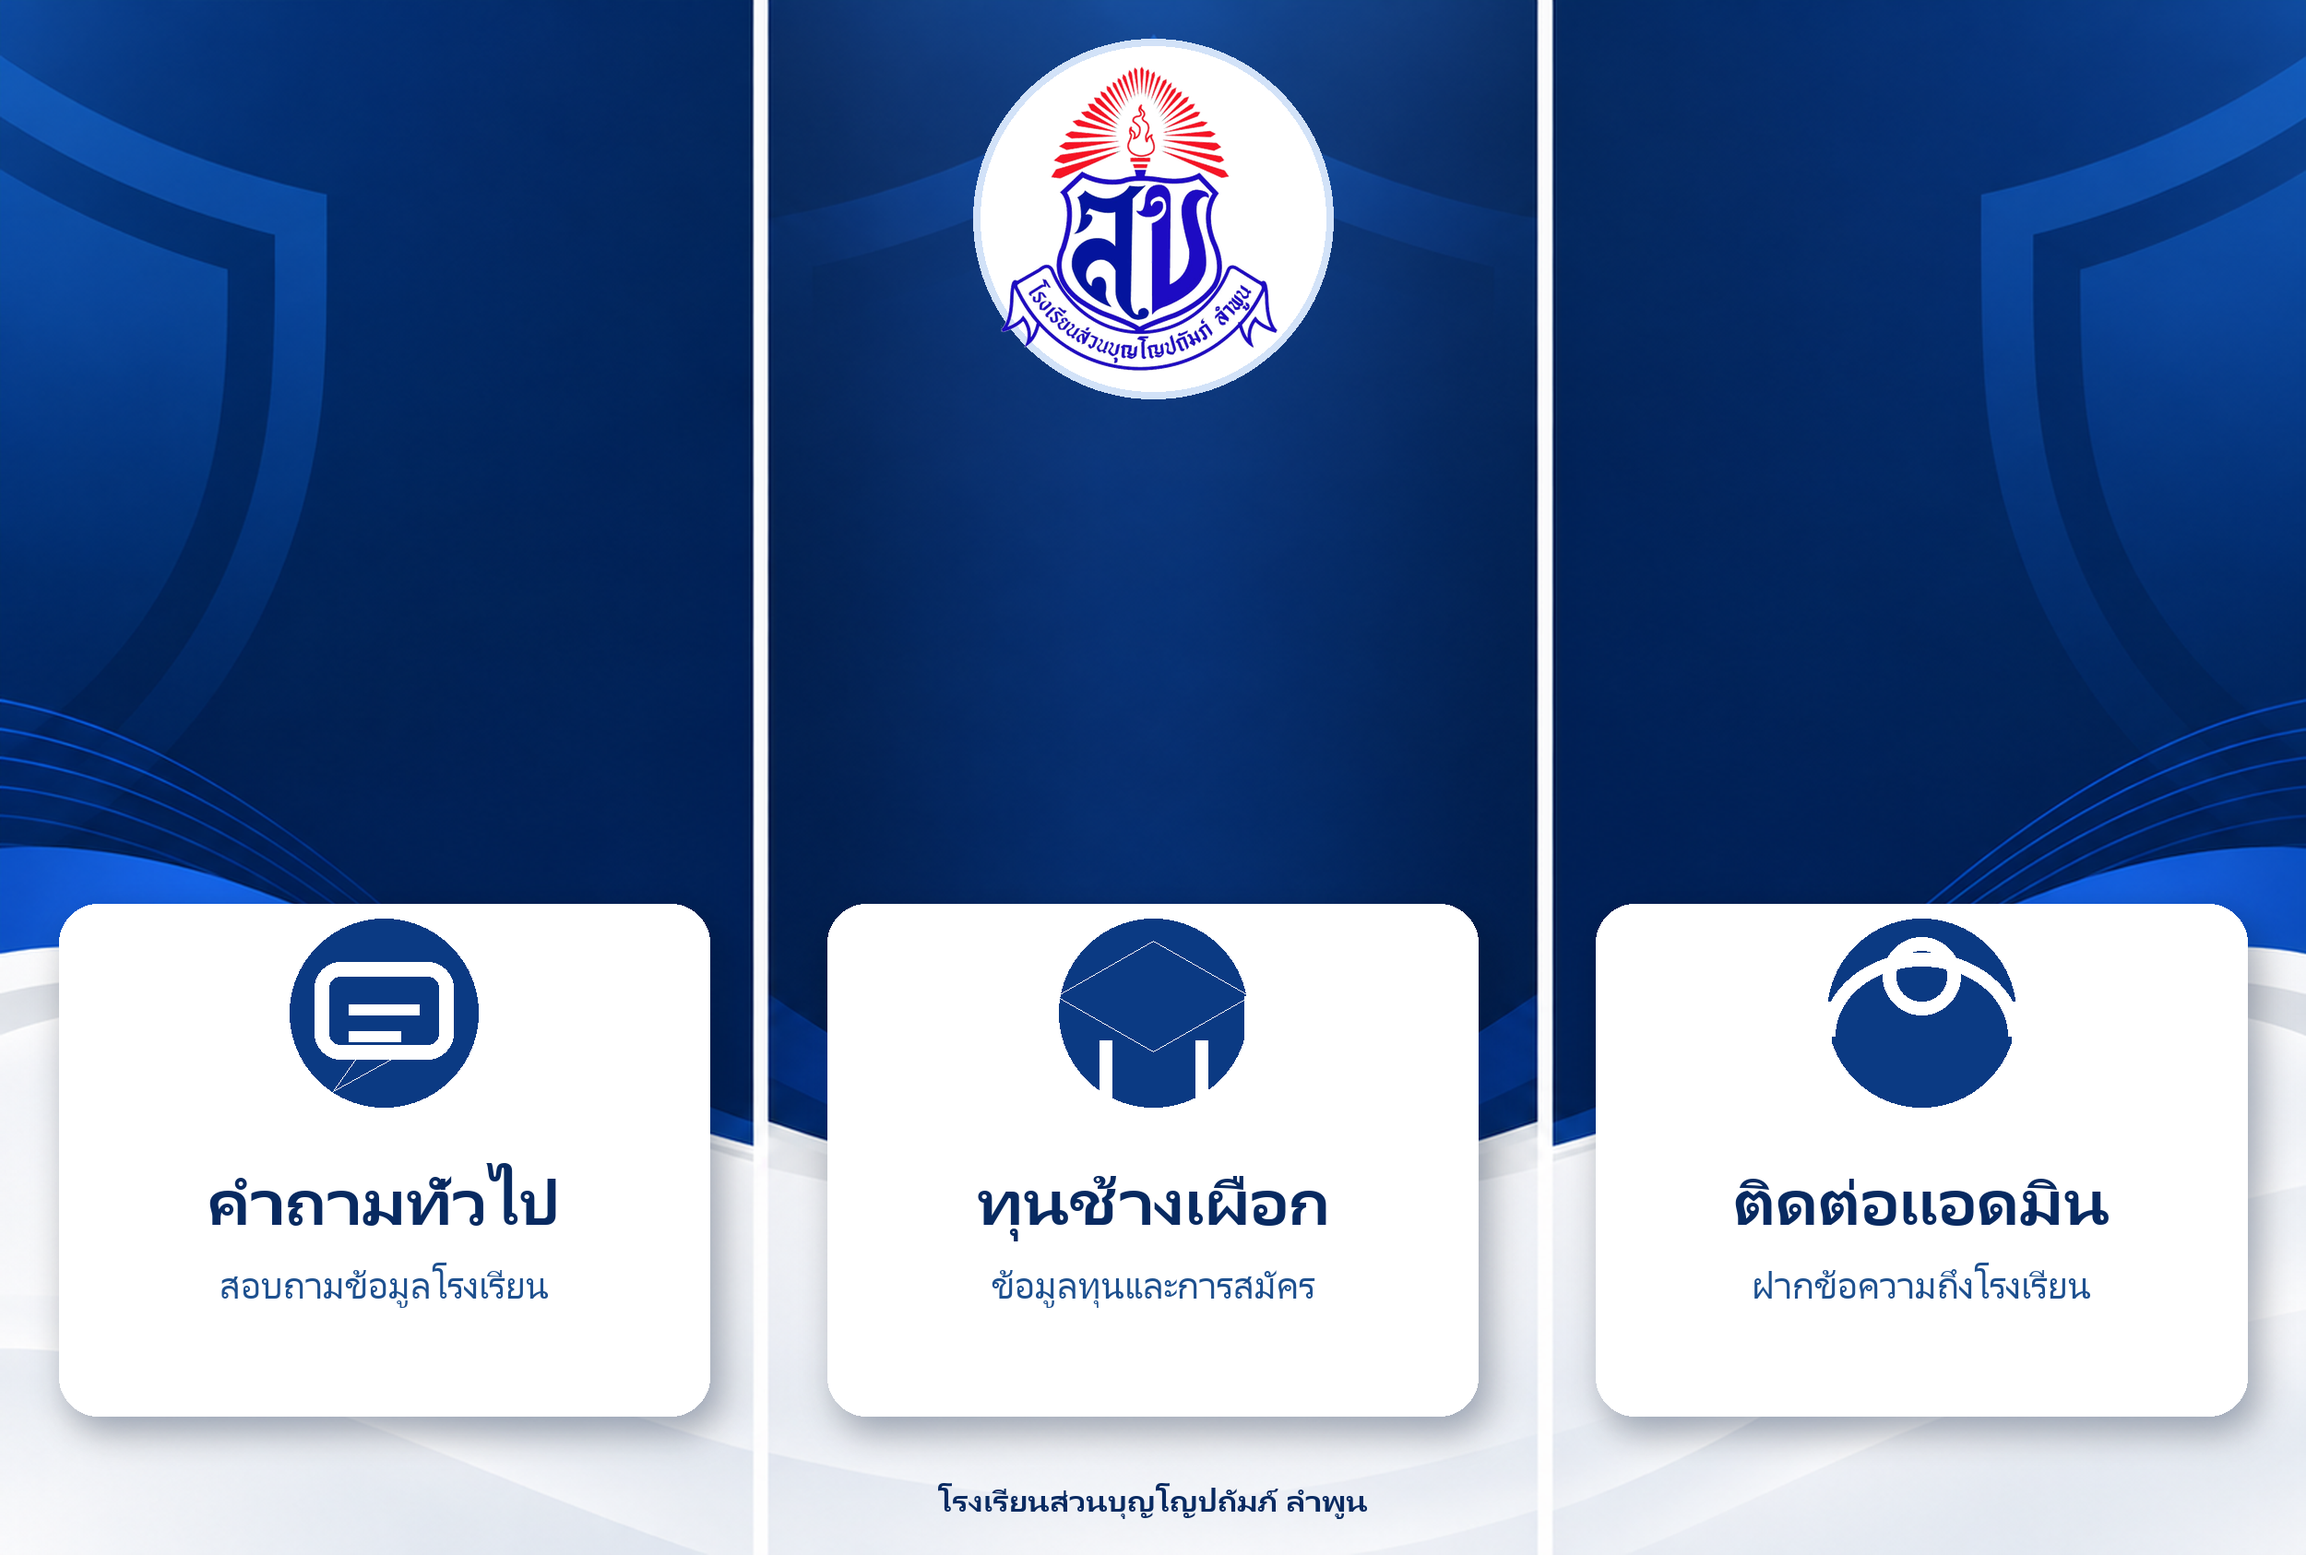
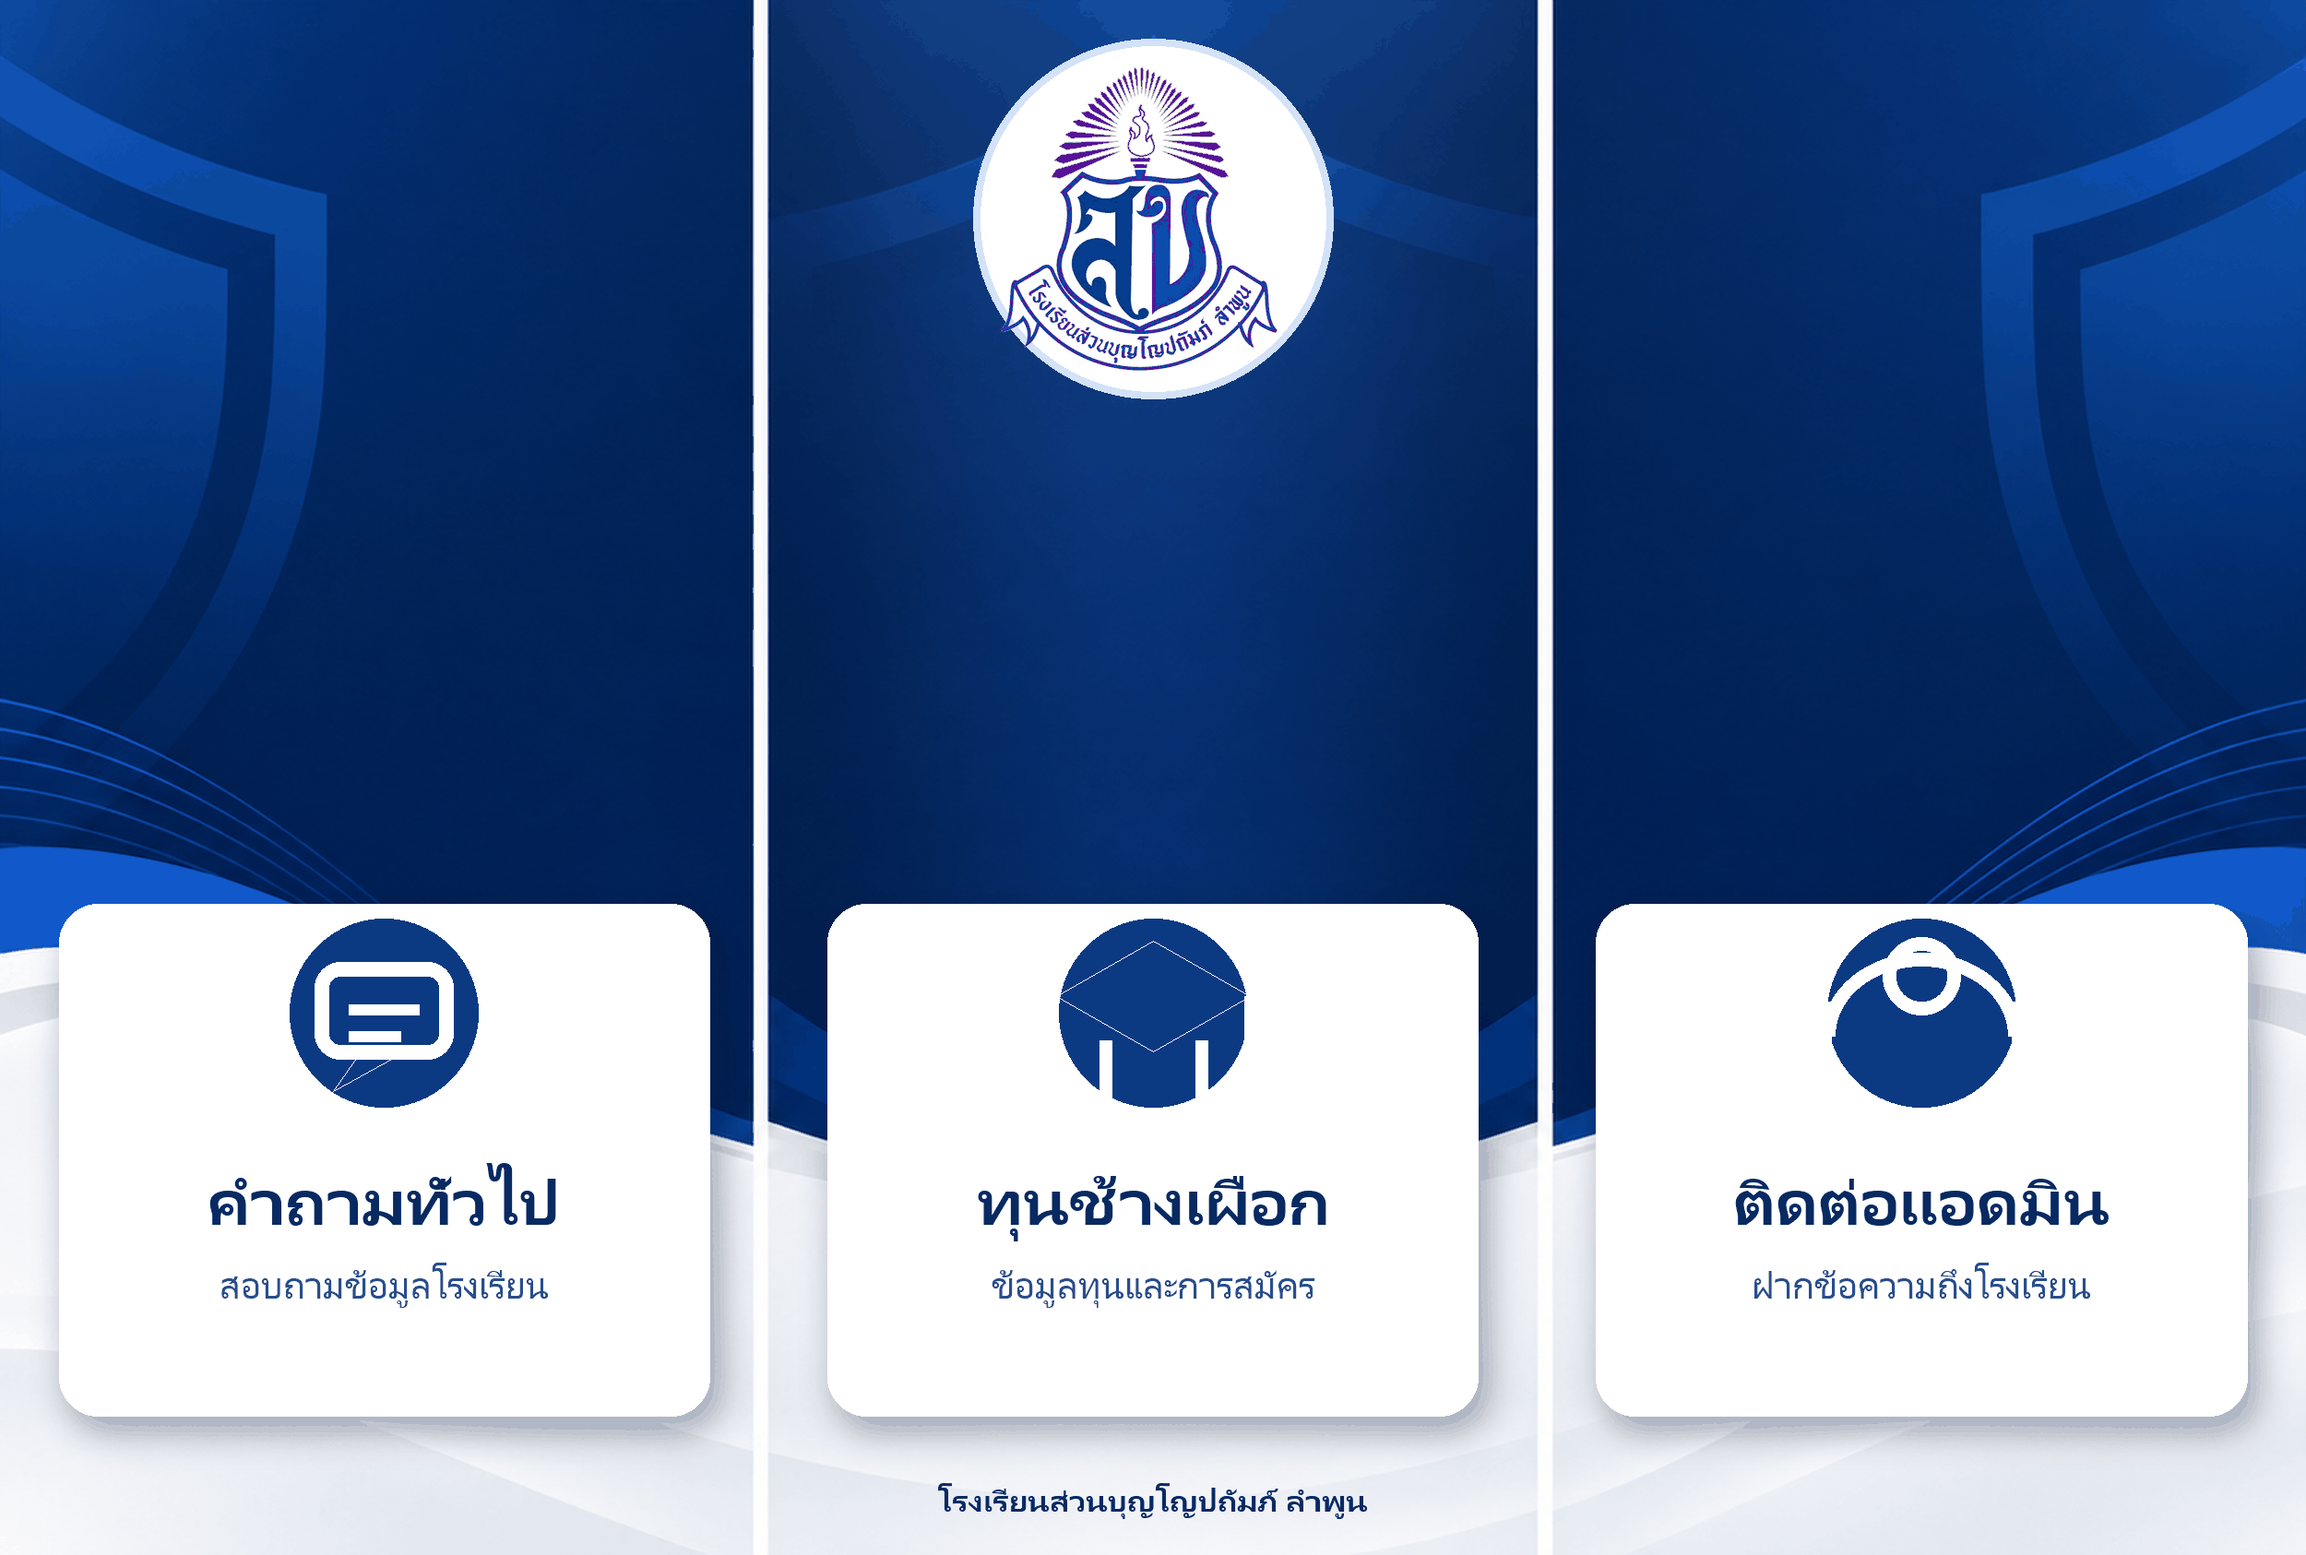
Optimize and upload branded rich menu

Changed region(s): [[0.4368, 0.0308, 0.5616, 0.2467], [0.0624, 0.5552, 0.0936, 0.586]]

diff --git a/src/richMenu.js b/src/richMenu.js
@@ -52,14 +52,19 @@ async function ensureModeRichMenu(client, imageBuffer, options = {}) {
   if (!richMenuId) {
     const response = await client.createRichMenu(createRichMenuRequest());
     richMenuId = response.richMenuId;
-    const imageClient = options.imageClient ?? client;
+    created = true;
+  }
+
+  const imageClient = options.imageClient ?? client;
+  try {
     await imageClient.setRichMenuImage(
       richMenuId,
       new Blob([imageBuffer], { type: RICH_MENU_IMAGE_TYPE })
     );
-    created = true;
+  } catch (error) {
+    const details = `${error.message ?? ""} ${error.body ?? ""}`;
+    if (!details.includes("already been uploaded")) throw error;
   }
-
   await client.setDefaultRichMenu(richMenuId);
   return { richMenuId, created };
 }

diff --git a/scripts/generate-rich-menu-image.py b/scripts/generate-rich-menu-image.py
@@ -144,7 +144,9 @@ def main():
         footer_font,
         (8, 42, 97, 255),
     )
-    canvas.convert("RGB").save(OUTPUT, format="PNG", optimize=True)
+    # LINE's rich-menu image upload limit is 1 MB; indexed PNG keeps the artwork crisp.
+    optimized = canvas.convert("RGB").quantize(colors=256, method=Image.Quantize.MEDIANCUT)
+    optimized.save(OUTPUT, format="PNG", optimize=True)
     print(OUTPUT)
 
 
